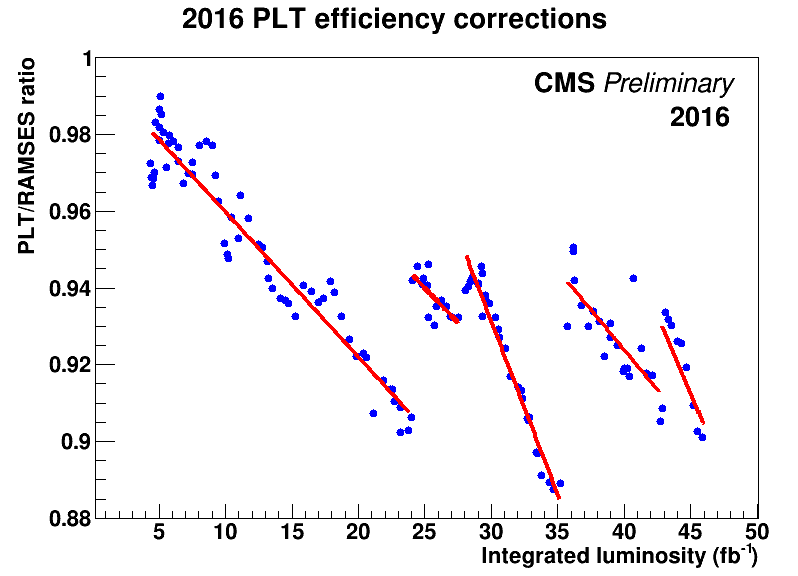
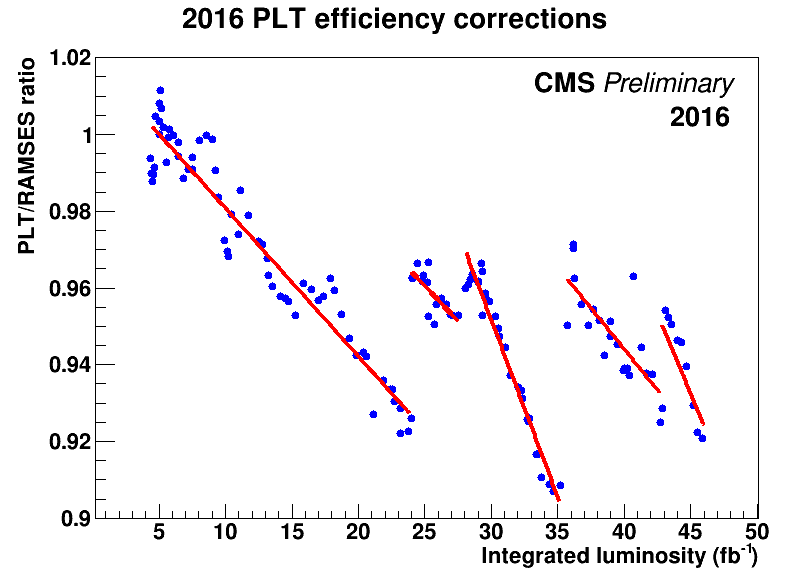
updated plots with new data from David

diff --git a/PLTRamsesComparison/PlotRAMSESCorrectionsPaper.C b/PLTRamsesComparison/PlotRAMSESCorrectionsPaper.C
@@ -44,6 +44,11 @@ const float ratioFitParams[nPeriods][4] = {{4.387, 23.958, 0.99749, -0.0037736},
 					   {42.863, 46.030, 1.28129725, -0.0081923}};
 
 
+// To account for the fact that the final corrections are scaled to be equal to 1 at the VdM
+// fill, we have to apply a scale factor to the ratio fits in order for them to match properly.
+// (Column K in the original spreadsheet)
+const float ratioFitScaleFactor = 1/0.978594023;
+
 void readCSVFile(std::string fileName, std::vector<double>& iLumi, std::vector<double>& iLumiErr,
 		 std::vector<double>& y, std::vector<double>& yErr, int targetField,
 		 bool hasError, float scaleFactor = 1.0) {
@@ -172,7 +177,7 @@ void PlotRAMSESCorrectionsPaper(void) {
   std::vector<double> ratioXErr;
   std::vector<double> ratioY;
   std::vector<double> ratioYErr;
-  readCSVFile(ratioFileName, ratioX, ratioXErr, ratioY, ratioYErr, 7, false);
+  readCSVFile(ratioFileName, ratioX, ratioXErr, ratioY, ratioYErr, 8, false);
 
   // Plot it. No errors for the ratios.
   TGraph *gratio = new TGraph(ratioX.size(), ratioX.data(), ratioY.data());
@@ -185,7 +190,7 @@ void PlotRAMSESCorrectionsPaper(void) {
   gratio->SetMarkerStyle(kFullCircle);
   gratio->SetMarkerColor(kBlue);
   gratio->SetMarkerSize(1);
-  gratio->GetYaxis()->SetRangeUser(0.88, 1.0);
+  gratio->GetYaxis()->SetRangeUser(0.90, 1.02);
   gratio->GetYaxis()->SetTitleOffset(1.35);
 
   t1->Draw();
@@ -195,8 +200,8 @@ void PlotRAMSESCorrectionsPaper(void) {
   TF1 *ratioFits[nPeriods];
   for (int i=0; i<nPeriods; i++) {
     ratioFits[i] = new TF1("r", "pol1", ratioFitParams[i][0], ratioFitParams[i][1]);
-    ratioFits[i]->SetParameter(0, ratioFitParams[i][2]);
-    ratioFits[i]->SetParameter(1, ratioFitParams[i][3]);
+    ratioFits[i]->SetParameter(0, ratioFitParams[i][2]*ratioFitScaleFactor);
+    ratioFits[i]->SetParameter(1, ratioFitParams[i][3]*ratioFitScaleFactor);
     ratioFits[i]->SetLineColor(kRed);
     ratioFits[i]->SetLineWidth(4);
     ratioFits[i]->Draw("same");
